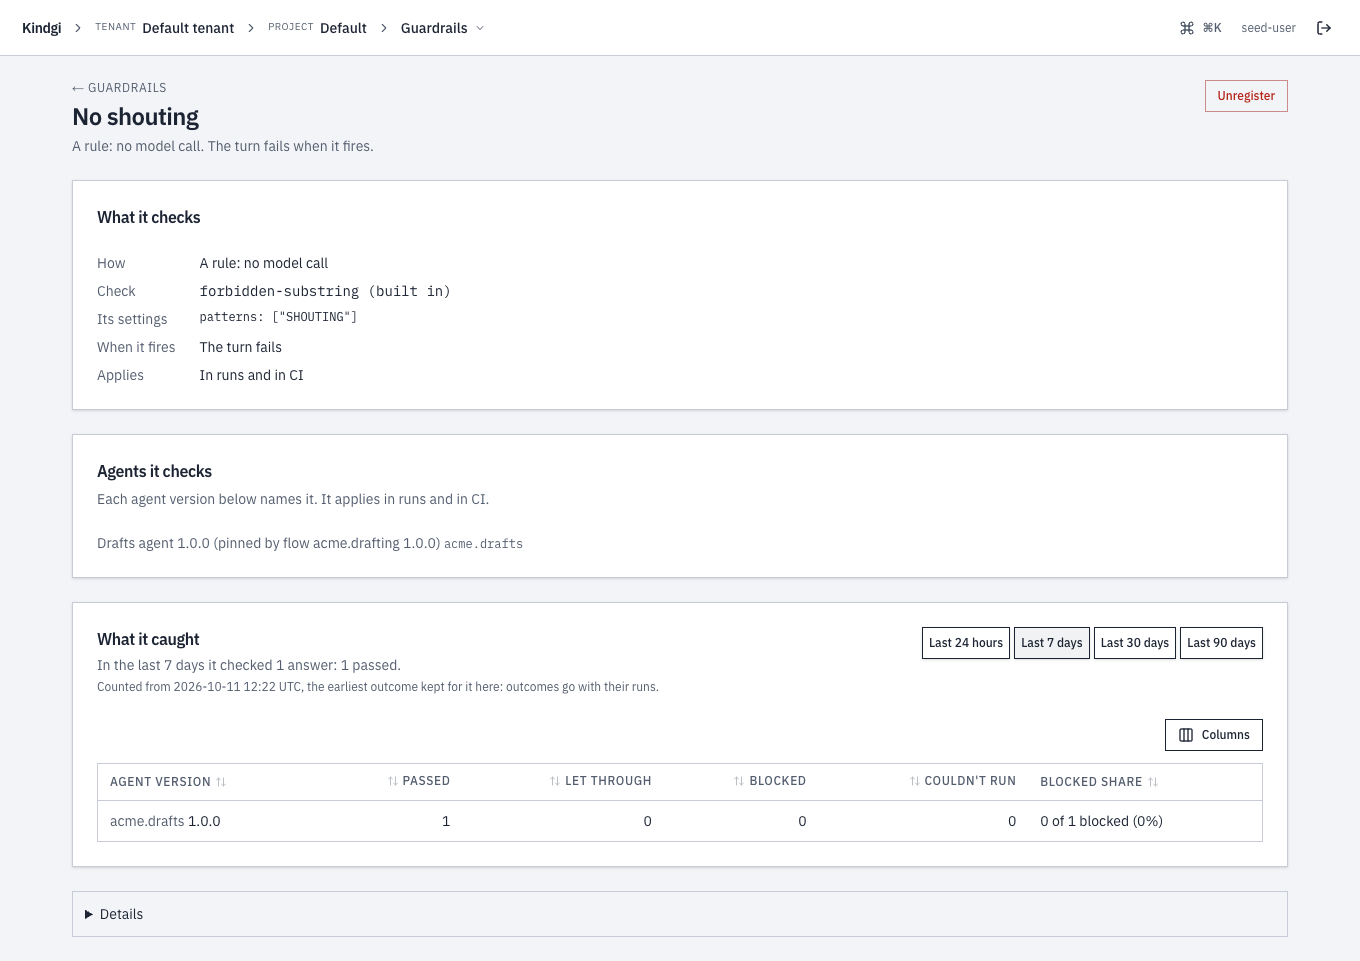
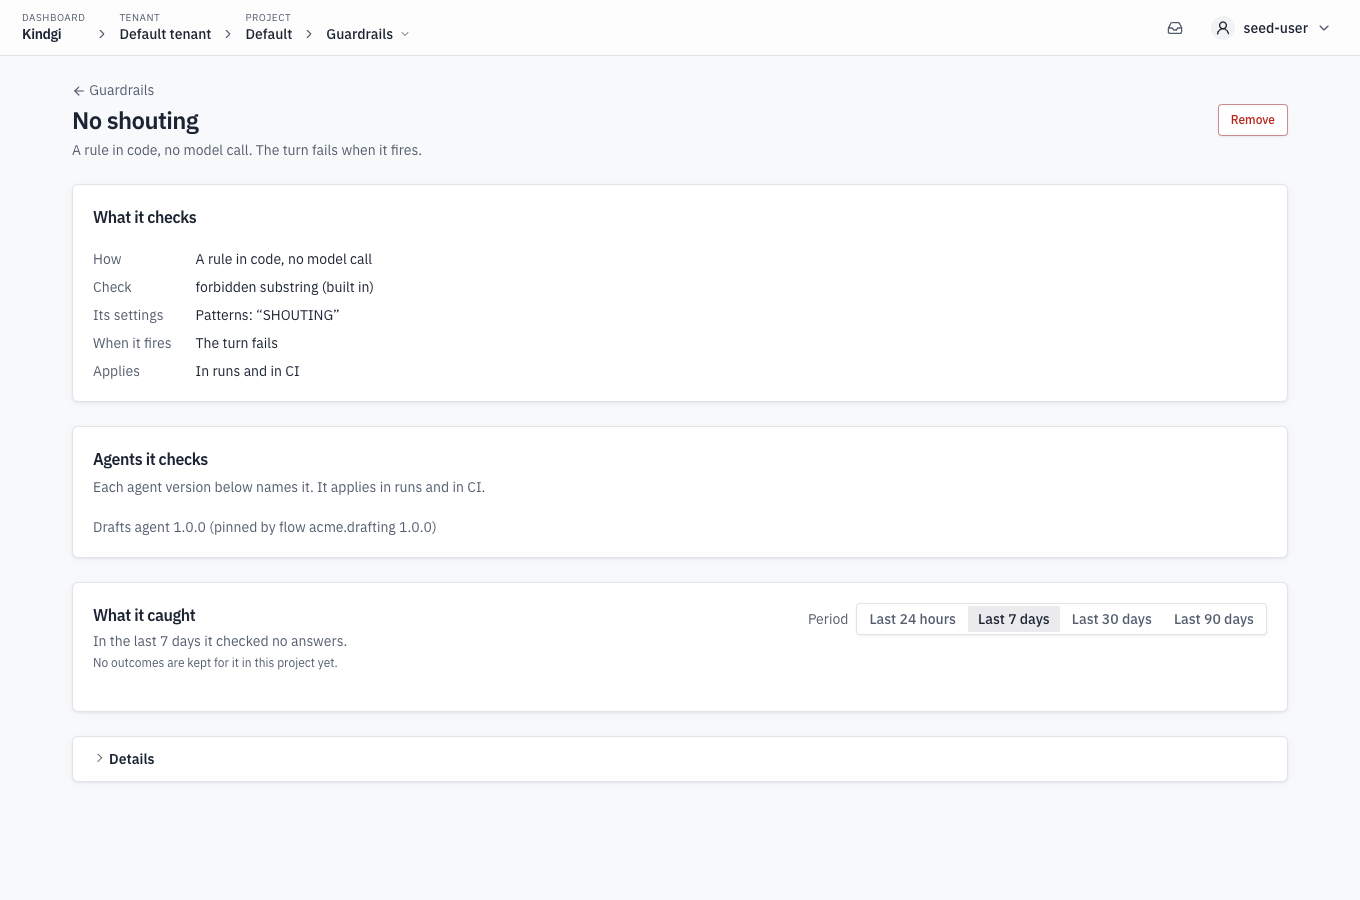
docs(site): the console's Times and Theme, and its webhooks, schedule, flow and guardrail pages as they read now (#1299)
## What

- **The menu under your name.** *Sign in to the console* gains a section
on the menu at the top right of every page: who you're signed in as,
**My access**, **Docs** and the deployment's own links, **Theme**
(System, Light or Dark; System follows the device), **Times** (Local
with your city, such as Local (Toronto), or UTC; Local to start with)
and **Sign out**. Each time names its zone, its clock reads 12 or 24
hours as the browser's language does, and the API keeps UTC. Cost by
day, the project overview and an Improve schedule's monthly cap stay in
UTC and say so. Theme and Times are kept in this browser only.
- **Outgoing webhooks.** *Webhook events*' console section matches the
page:
- it's **Outgoing webhooks**, in the tenant's sections, with no
headline, and it no longer says times are UTC;
- **Remove** takes the place of Unregister, with its dialog and the line
an old address shows;
  - **Send again** is a button at the end of a delivery's row;
- a runtime without a secrets store says "Outgoing webhooks aren't
turned on here".

`webhooks-list.png`, `webhook-endpoint.png` and `webhooks-off.png` are
retaken, with their alt texts.
- **A schedule's page.** *Run on a schedule*:
- the list's Times line names **Local (Toronto)** and links the new
section;
  - a schedule's page has **Remove** with its dialog;
  - a run's **Started by** reads as the console shows it.

`schedule-fires.png`, `schedule-page.png`, `schedule-take-over.png` and
[…]

diff --git a/site/src/content/docs/guides/sso/sign-in.md b/site/src/content/docs/guides/sso/sign-in.md
@@ -1,6 +1,6 @@
 ---
 title: Sign in to the console
-description: What a person sees on the console's sign-in page, from their email to the console, and what each message there means.
+description: What a person sees on the console's sign-in page, from their email to the console, what each message there means, and the menu under your name once you're in.
 sidebar:
   order: 1
 ---
@@ -95,6 +95,35 @@ keep the token.
 
 When the page says **There's no way to sign in here yet**, the deployment
 has no way in turned on. Ask whoever runs it.
+
+## The menu under your name
+
+Once you're in, your name is at the top right of every page. Its menu has:
+
+- who you're signed in as;
+- **My access**: what you may do, and how you have it
+  ([The console, by role](../../../deploy/authorization/#the-console-by-role));
+- **Docs**, and below it the links the deployment adds
+  ([Your own links in the console](../../../deploy/self-hosted/sign-in/#your-own-links-in-the-console));
+- **Theme:** **System**, **Light** or **Dark**. System, to start with,
+  follows your device's setting as it changes.
+- **Times:** **Local** with your city, such as **Local (Toronto)**, or
+  **UTC**. Local, to start with, shows times on your browser's clock.
+- **Sign out** ([Signing out](../sessions/#signing-out)).
+
+Each time names its zone either way, such as "25 Oct 2026, 1:08 AM EDT".
+Its clock reads 12 or 24 hours as your browser's language does: 12 in
+American English, 24 in British English, French or German. Only what the
+console shows changes: the runtime keeps and sends times in UTC, so the API
+and its clients see UTC. A few stay in UTC and say so: cost by day ("Spend
+by day (UTC), by agent"), the project overview's "The last 7 days, by UTC
+day", and
+an Improve schedule's monthly cap ("A calendar month, UTC."). A schedule's
+cron reads in the schedule's own zone
+([Run on a schedule](../../runs/run-on-a-schedule/#in-the-console)).
+
+Your Theme and Times are kept in this browser, not with your account:
+another browser, or a new private window, starts at System and Local.
 
 ## Next
 

diff --git a/site/src/content/docs/deploy/self-hosted/operate.md b/site/src/content/docs/deploy/self-hosted/operate.md
@@ -594,7 +594,7 @@ What to check before you upgrade, and what's different after:
     correcting runs, and [costs](../../../guides/observability/cost-per-run/#cost-in-the-console)
     for the project and each run. The tenant gets
     [Teams](../../authorization/#in-the-console-teams),
-    [Webhooks](../../../guides/webhooks/webhook-events/#in-the-console),
+    [Outgoing webhooks](../../../guides/webhooks/webhook-events/#in-the-console),
     [Sign-in](../../../guides/sso/#from-the-console), **My access** and its own
     costs. A page or action shows only to the roles that can use it
     ([The console, by role](../../authorization/#the-console-by-role)).

diff --git a/site/src/content/docs/guides/webhooks/index.md b/site/src/content/docs/guides/webhooks/index.md
@@ -26,7 +26,8 @@ cancelled.
 - [Test and replay deliveries](test-and-replay/): send a test event, see
   what was delivered, and send a failed delivery again.
 - [Webhook events and deliveries](webhook-events/): every event and what it
-  carries, how deliveries are retried, and the console's Webhooks page.
+  carries, how deliveries are retried, and the console's Outgoing webhooks
+  page.
 
 Requests are signed in the [Standard Webhooks](https://www.standardwebhooks.com)
 format, so a receiver in another language can use any Standard Webhooks
